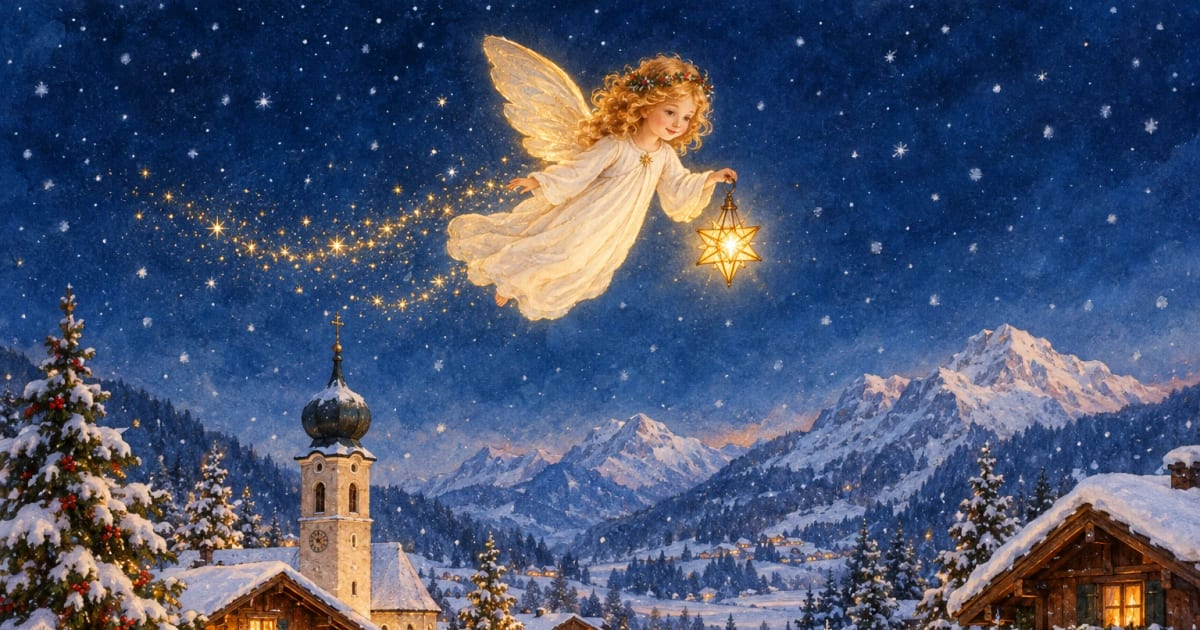
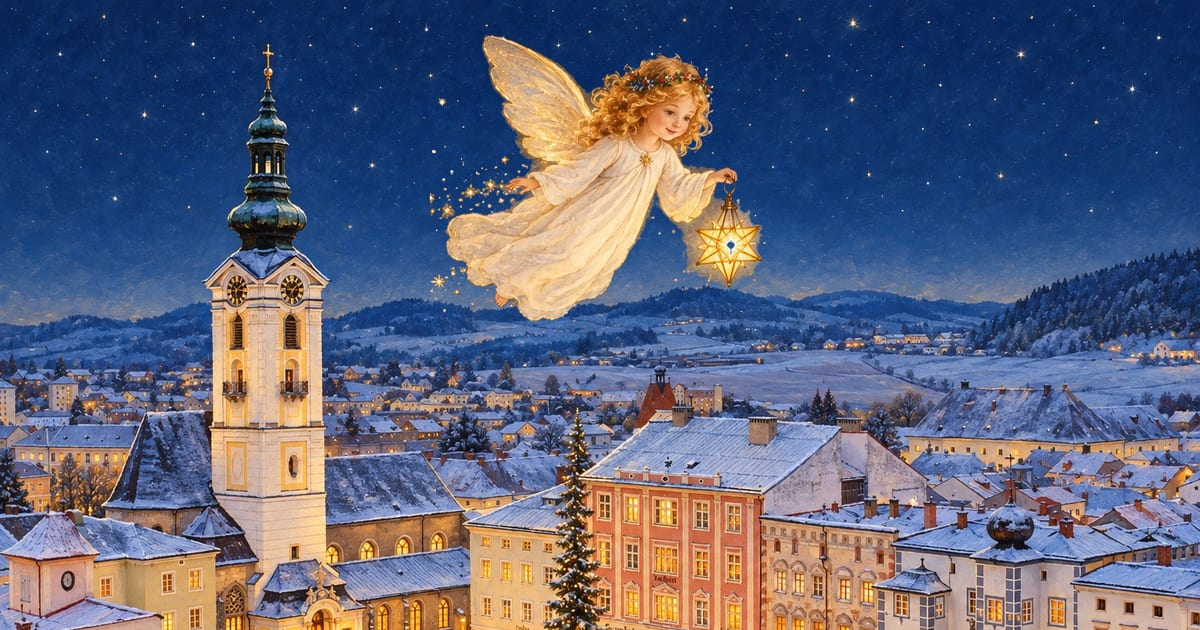
Add Freistadt cover with floating Christkind

diff --git a/client/src/pages/Home.tsx b/client/src/pages/Home.tsx
@@ -1,7 +1,7 @@
 import { useState } from 'react';
 import { Link } from 'react-router';
 import { ChevronRight, Crown, Gift, Trash2 } from 'lucide-react';
-import { Footer, TopBar } from '../components/Layout';
+import { Footer } from '../components/Layout';
 import { ConfirmSheet } from '../components/ui';
 import { forgetRound, listRounds, type SavedRound } from '../lib/storage';
 import { useDocumentTitle } from '../lib/hooks';
@@ -47,21 +47,27 @@ export function Home() {
       <div className="relative z-[1]">
         <div className="relative mx-auto max-w-5xl overflow-hidden">
           <img
-            src="/img/hero-768.webp"
-            srcSet="/img/hero-768.webp 768w, /img/hero-1280.webp 1280w, /img/hero-1536.webp 1536w"
+            src="/img/hero-sky-768.webp"
+            srcSet="/img/hero-sky-768.webp 768w, /img/hero-sky-1280.webp 1280w, /img/hero-sky-1536.webp 1536w"
             sizes="(min-width: 1024px) 1024px, 100vw"
             width={1536}
             height={1024}
-            alt="Das Christkind fliegt mit einer Sternlaterne über ein verschneites Alpendorf"
+            alt="Das Christkind fliegt mit einer Sternlaterne über den verschneiten Hauptplatz von Freistadt und die Hügel des Mühlviertels"
             fetchPriority="high"
-            className="h-[min(62vh,34rem)] w-full object-cover object-[50%_35%] sm:rounded-b-[2.5rem]"
+            className="h-[min(62vh,34rem)] w-full object-cover object-[25%_35%] sm:rounded-b-[2.5rem]"
           />
-          <div className="pointer-events-none absolute inset-0 bg-gradient-to-b from-night-900/40 via-transparent to-night-900" />
-          <div className="absolute inset-x-0 top-0">
-            <div className="page !pb-0">
-              <TopBar />
-            </div>
+          <div className="hero-flight pointer-events-none absolute inset-0" aria-hidden="true">
+            <img
+              src="/img/hero-flying-768.webp"
+              srcSet="/img/hero-flying-768.webp 768w, /img/hero-flying-1280.webp 1280w, /img/hero-flying-1536.webp 1536w"
+              sizes="(min-width: 1024px) 1024px, 100vw"
+              width={1536}
+              height={1024}
+              alt=""
+              className="h-full w-full object-cover object-[25%_35%]"
+            />
           </div>
+          <div className="pointer-events-none absolute inset-0 bg-gradient-to-b from-night-900/40 via-transparent to-night-900" />
         </div>
         <main className="page -mt-28 sm:-mt-32">
           <div className="text-center animate-fade-up">

diff --git a/client/src/pages/home.test.ts b/client/src/pages/home.test.ts
@@ -27,6 +27,10 @@ describe('the website', () => {
     expect(html).toContain('Neue Wichtel-Runde starten');
     expect(html).toContain('So funktioniert’s');
     expect(html).toContain('Link in die Familiengruppe');
+    expect(html).toContain('/img/hero-sky-768.webp');
+    expect(html).toContain('/img/hero-flying-768.webp');
+    expect(html).toContain('Hauptplatz von Freistadt');
+    expect(html).toContain('hero-flight pointer-events-none absolute inset-0');
     expect(html).not.toMatch(/Kostenlos|ohne Passwort|persönlich bestätigt|Was die App kann|Datenschutz|Impressum|Mit Liebe gemacht/i);
   });
 

diff --git a/client/src/styles.css b/client/src/styles.css
@@ -89,6 +89,15 @@
   50% { transform: translateY(-10px); }
 }
 
+@keyframes hero-flight {
+  0%, 100% { transform: translate(0, 24px); }
+  50% { transform: translate(3px, 15px); }
+}
+
+.hero-flight {
+  animation: hero-flight 5s ease-in-out infinite;
+}
+
 @layer base {
   html {
     background: var(--color-night-900);
